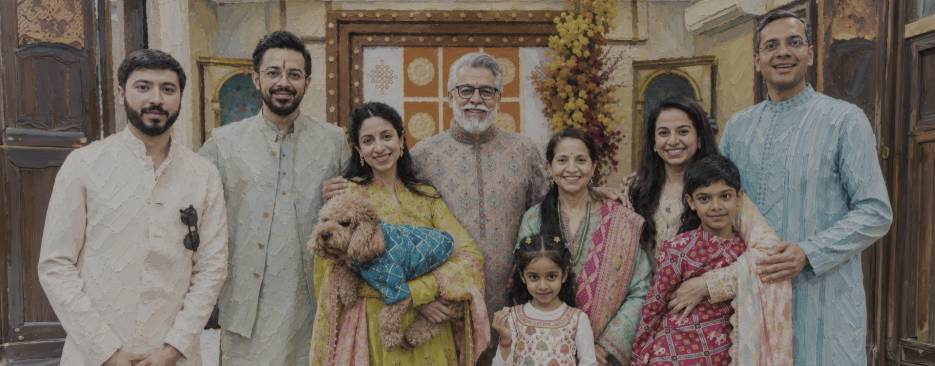
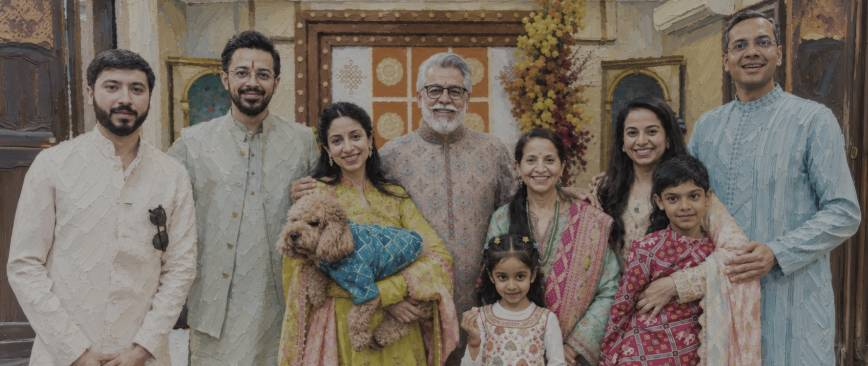
Family: clean cut-out, no gaps around the large words, centred with a soft lower edge
- New cut-out from a stronger segmentation model: clean outline with soft hair edges, no background strips between or beside the figures; edge colours cleaned of the wall behind
- One exact row grid: each large word's capitals span whole rows, and the small words on either side are chosen and spaced to meet it at normal word spacing
- Faces on their own finer rows, blended into the body words along feathered ellipses
- The group is centred left of the text and level with it, and fades out softly at the bottom (phone too)

Claude-Session: https://claude.ai/code/session_011tDJ4uajGqNBzUiiqwHwYC

diff --git a/js/app.js b/js/app.js
@@ -120,29 +120,33 @@
   const layoutFor = s => wp.layout(spec(s), W, H, dpr);
 
   // ---------------- the family: the painting itself, set in words ----------------
-  // One facet is shown differently. The family is cut out of the painting and set in tightly packed rows of small words
-  // in the painting's own colours (finer across the faces, so each one stays recognisable), with the brushwork faintly
-  // between the letters. Its background is only a faint trace, as with the other portraits. On desktop a few larger
-  // words for this facet sit on the same row grid, set into the family's clothes. The group stands on the bottom edge
-  // of the screen like every portrait, text on the right. Scrolling in or out, it comes apart into its words.
+  // One facet is shown differently. The family is cut out of the painting and set in close rows of small words in the
+  // painting's own colours, with its brushwork faintly between the letters; the faces have their own finer rows, blended
+  // in softly, so each one stays recognisable. Its background is only a faint trace, as with the other portraits. On
+  // desktop a few larger words for this facet are set into the family's clothes on the same row grid: each one spans
+  // whole rows exactly, and the small words on either side are spaced to meet it, so nothing leaves a gap. The group
+  // sits level with the text and fades out softly at the bottom. Scrolling in or out, it comes apart into its words.
   // Phone: as tall as the portraits, panning across the family as you scroll.
   const ART = (() => {
     const fi = FACETS.findIndex(f => f.art); if (fi < 0) return null;
     const f = FACETS[fi], state = String(fi), el = $('.famart'), x = el.getContext('2d'), root = document.documentElement;
     const img = new Image(), mimg = new Image(), bimg = new Image();
-    let built = '', box = null, shown = -1, words = [], under = null, layer = null, scene = null, D = 1;
+    let built = '', box = null, shown = -1, words = [], layers = null, D = 1;
     img.src = f.art; mimg.src = f.artMask; bimg.src = f.artBg;
     const loaded = Promise.all([img.decode(), mimg.decode(), bimg.decode()]).catch(() => {});
-    // the painting file is cropped to the family: x from 50 to 1920 of the original 2000 × 733
-    const CX0 = 50 / 2000, CXW = 1870 / 2000;
-    const toCrop = u => (u - CX0) / CXW;
+    // the painting file is cropped to the family: [left, width] in pixels of the original painting, and its full width
+    const [c0, cW, oW] = f.artCrop, toCrop = u => (u * oW - c0) / cW;
     function place() {
-      const vw = innerWidth, vh = innerHeight, ar = (img.naturalWidth / img.naturalHeight) || 1870 / 733;
+      const vw = innerWidth, vh = innerHeight, ar = (img.naturalWidth / img.naturalHeight) || cW / 733;
       const hdr = parseFloat(getComputedStyle(root).getPropertyValue('--hdr'));
-      let w, h, left;
-      if (MOBILE.matches) { h = H; w = h * ar; left = 0; }
-      else { w = Math.min(vw * 0.62, (vh - hdr - 40) * ar); h = w / ar; left = vw * 0.02; }
-      const top = MOBILE.matches ? hdr + 2 : vh - h;   // desktop: standing on the bottom edge, like every portrait
+      let w, h, left, top;
+      if (MOBILE.matches) { h = H; w = h * ar; left = 0; top = hdr + 2; }
+      else {
+        // centred in the space left of the text and level with it (the faded lower edge makes the group read a little high)
+        const zl = vw * 0.025, zr = vw * 0.63;
+        w = Math.min(zr - zl, (vh - hdr - 60) * ar); h = w / ar;
+        left = zl + (zr - zl - w) / 2; top = Math.max(hdr + 12, vh / 2 - h * 0.44);
+      }
       box = { w: Math.round(w), h: Math.round(h), top, left };
       Object.assign(el.style, { width: box.w + 'px', height: box.h + 'px', top: top + 'px', left: left + 'px' });
       shown = -1;
@@ -153,75 +157,117 @@
       const cw = Math.round(box.w * D), ch = Math.round(box.h * D), mob = MOBILE.matches, key = cw + 'x' + ch + mob;
       if (key === built) return; built = key;
       el.width = cw; el.height = ch;
-      const R = seeded(fi * 31 + 7), pool = spec(state).words.map(w => w.t.toUpperCase());
+      const R = seeded(fi * 31 + 7), pool = [...new Set(spec(state).words.map(w => w.t.toUpperCase()))];
+      const pick = () => pool[(R() * pool.length) | 0];
+      const mk = () => { const c = document.createElement('canvas'); c.width = cw; c.height = ch; const g = c.getContext('2d'); g.fillStyle = '#fff'; g.textBaseline = 'alphabetic'; return [c, g]; };
+      const font = fs => `700 ${fs}px ${window.WP_FONT}`;
+      const probe = document.createElement('canvas').getContext('2d');
+      const widths = new Map(), widthOf = (t, fs) => { const k = fs + t; let w = widths.get(k); if (w === undefined) { probe.font = font(fs); w = probe.measureText(t).width; widths.set(k, w); } return w; };
+      probe.font = font(100); const CAP = (probe.measureText('H').actualBoundingBoxAscent || 72) / 100;   // capitals only: a line is its cap height
+      // where the family is (a small copy of the cut-out's outline), and where the faces are
       const mc = document.createElement('canvas'); mc.width = mimg.naturalWidth; mc.height = mimg.naturalHeight;
       const mx = mc.getContext('2d'); mx.drawImage(mimg, 0, 0); const md = mx.getImageData(0, 0, mc.width, mc.height).data;
-      const onFamily = (px, py) => { const i = (Math.min(mc.height - 1, Math.max(0, (py / ch * mc.height) | 0)) * mc.width + Math.min(mc.width - 1, Math.max(0, (px / cw * mc.width) | 0))) * 4; return md[i] > 90; };
-      const ex = 65 / 2000, ey = 9 / 733, sx = 1830 / 2000, sy = 724 / 733;
-      const faces = f.heads.map(([hx, hy, rx, ry]) => [toCrop(ex + hx * sx) * cw, (ey + hy * sy) * ch, rx * sx / CXW * cw * 1.3, ry * sy * ch * 1.25]);
-      const inFace = (px, py, pad = 1) => faces.some(([a, b, rx, ry]) => ((px - a) / (rx * pad)) ** 2 + ((py - b) / (ry * pad)) ** 2 < 1);
-      const font = fs => `700 ${fs}px ${window.WP_FONT}`;
-      const mk = () => { const c = document.createElement('canvas'); c.width = cw; c.height = ch; const g = c.getContext('2d'); g.fillStyle = '#fff'; g.textBaseline = 'alphabetic'; return [c, g]; };
-      // one row grid for everything: small words on every line, larger words spanning several lines exactly
-      const body = ch / (mob ? 72 : 66), step = body * 0.84, gap = body * 0.2, y0 = body * 0.78;
-      const [t, tx] = mk();
+      const onFamily = (px, py) => md[(Math.min(mc.height - 1, Math.max(0, (py / ch * mc.height) | 0)) * mc.width + Math.min(mc.width - 1, Math.max(0, (px / cw * mc.width) | 0))) * 4] > 150;
+      const ex = 65 / 2000, ey = 9 / 733, sx = 1830 / 2000, sy = 724 / 733;   // the facet's head boxes are given relative to the group
+      const faces = f.heads.map(([hx, hy, rx, ry]) => [toCrop(ex + hx * sx) * cw, (ey + hy * sy) * ch, rx * sx * oW / cW * cw * 1.3, ry * sy * ch * 1.25]);
+      const inFace = (px, py, k = 1) => faces.some(([a, b, rx, ry]) => ((px - a) / (rx * k)) ** 2 + ((py - b) / (ry * k)) ** 2 < 1);
       words = [];
+
+      // a line of words from a to b. A side marked tight meets a large word: the line starts or ends exactly there. With
+      // both sides tight the words are chosen to fill the space, then spaced (and at most very slightly widened or
+      // narrowed) so the line runs exactly from one to the other.
+      function line(fs, y, a, b, tightA, tightB, tag) {
+        const space = fs * 0.22, put = (t, px, s) => words.push({ t, x: px, y, w: widthOf(t, fs) * s, fs, s, tag });
+        if (!tightA && !tightB) { let px = a - R() * fs * 4; while (px < b) { const t = pick(); put(t, px, 1); px += widthOf(t, fs) + space; } return; }
+        if (tightA && !tightB) { let px = a; while (px < b) { const t = pick(); put(t, px, 1); px += widthOf(t, fs) + space; } return; }
+        if (!tightA) { let px = b; while (px > a) { const t = pick(), w = widthOf(t, fs); px -= w; put(t, px, 1); px -= space; } return; }
+        const L = b - a, run = []; let sum = 0;
+        for (let miss = 0; miss < 12;) {
+          const t = pick(), w = widthOf(t, fs);
+          if (sum + w + space * run.length <= L) { run.push(t); sum += w; miss = 0; } else miss++;
+        }
+        // the last gap: the word that best fills what is left
+        const left = L - sum - space * run.length;
+        let best = null, bd = Infinity;
+        for (const t of pool) { const d = Math.abs(widthOf(t, fs) - left); if (d < bd) { bd = d; best = t; } }
+        if (best && widthOf(best, fs) < left * 1.14 + fs * 0.4) { run.push(best); sum += widthOf(best, fs); }
+        if (!run.length) return;
+        const gaps = run.length - 1, s = Math.min(1.08, Math.max(0.9, (L - space * gaps) / sum));
+        const extra = gaps ? Math.max(-space * 0.5, (L - sum * s - space * gaps) / gaps) : 0;
+        let px = gaps ? a : a + (L - sum * s) / 2;
+        for (const t of run) { put(t, px, s); px += widthOf(t, fs) * s + space + extra; }
+      }
+
+      // the row grid: every line the same height; a large word's capitals span whole lines, from the top of one to the
+      // baseline of another
+      const body = ch / (mob ? 72 : 64), step = body * CAP + body * 0.14, y0 = body * CAP, sp = body * 0.22;
       const big = [];
-      if (!mob) (f.feature || []).forEach(([w0, u, v, maxW]) => {
-        const cxp = toCrop(u) * cw, mw = maxW / CXW * cw;
+      if (!mob) for (const [t, u, v, maxW] of f.feature || []) {
+        const cx = toCrop(u) * cw, mw = maxW * oW / cW * cw;
         for (let n = 7; n >= 2; n--) {
-          const fs = (n * step - step * 0.2) / 0.72;   // cap height fills n rows, less one row's gap
-          tx.font = font(fs); const w = tx.measureText(w0).width;
+          const fs = ((n - 1) * step + body * CAP) / CAP, w = widthOf(t, fs);
           if (w > mw) continue;
-          const k = Math.round((v * ch + n * step / 2 - y0) / step), by = y0 + k * step, px = cxp - w / 2, top = by - fs * 0.72;
-          let fits = true;   // every part of the word on the family, and clear of every face
-          for (let i = 0; i <= 8 && fits; i++) { const qx = px + w * i / 8; for (const qy of [top, by - fs * 0.36, by]) if (!onFamily(qx, qy) || inFace(qx, qy)) { fits = false; break; } }
+          const k = Math.round((v * ch + ((n - 1) * step + body * CAP) / 2 - y0) / step), by = y0 + k * step, top = by - fs * CAP, px = cx - w / 2;
+          let fits = true;   // every part of it on the family, clear of every face and of the other large words
+          for (let i = 0; i <= 12 && fits; i++) { const qx = px + w * i / 12; for (const qy of [top, (top + by) / 2, by]) if (!onFamily(qx, qy) || inFace(qx, qy, 1.05)) { fits = false; break; } }
+          if (fits && big.some(q => k - n + 1 <= q.k1 && k >= q.k0 && px - sp < q.x1 && px + w + sp > q.x0)) fits = false;
           if (!fits) continue;
-          big.push([px - gap * 0.6, top - step * 0.1, px + w + gap * 0.6, by + step * 0.05]);
-          words.push({ t: w0, x: px, y: by, w, fs, big: true });
+          big.push({ t, x: px, y: by, w, fs, k0: k - n + 1, k1: k, x0: px - sp, x1: px + w + sp });
           break;
         }
+      }
+      for (let k = 0, y = y0; y < ch + step; k++, y += step) {
+        const bl = big.filter(q => k >= q.k0 && k <= q.k1).sort((p, q) => p.x0 - q.x0);
+        let a = -body * 2, ta = false;
+        for (const q of bl) { line(body, y, a, q.x0, ta, true, 'b'); a = q.x1; ta = true; }
+        line(body, y, a, cw + body * 2, ta, false, 'b');
+      }
+      big.forEach(q => words.push({ t: q.t, x: q.x, y: q.y, w: q.w, fs: q.fs, s: 1, tag: 'b', big: true }));
+      // the faces: their own finer rows, only where a face is
+      const fsF = body * 0.66, stepF = fsF * CAP + fsF * 0.14;
+      for (let y = fsF * CAP; y < ch + stepF; y += stepF) {
+        const yc = y - fsF * CAP / 2, spans = [];
+        faces.forEach(([a, b, rx, ry]) => { const e = (yc - b) / (ry * 1.15); if (Math.abs(e) < 1) { const hw = rx * 1.15 * Math.sqrt(1 - e * e); spans.push([a - hw - fsF * 2, a + hw + fsF * 2]); } });
+        spans.sort((p, q) => p[0] - q[0]);
+        const merged = []; spans.forEach(s0 => { const m = merged[merged.length - 1]; if (m && s0[0] <= m[1]) m[1] = Math.max(m[1], s0[1]); else merged.push(s0.slice()); });
+        merged.forEach(([a, b]) => line(fsF, y, a, b, false, false, 'f'));
+      }
+      // keep only words that show: on the family, and on the right side of the soft line between face and body
+      words = words.filter(w => {
+        const my = w.y - w.fs * CAP / 2, on = onFamily(w.x + w.w / 2, my) || onFamily(w.x + 2, my) || onFamily(w.x + w.w - 2, my);
+        if (!on) return false;
+        return w.tag === 'f' ? inFace(w.x + w.w / 2, my, 1.12) || inFace(w.x, my, 1.12) || inFace(w.x + w.w, my, 1.12) : w.big || !inFace(w.x + w.w / 2, my, 0.85);
       });
-      const blocked = (a, b, w, fs) => big.some(q => a < q[2] && a + w > q[0] && b - fs * 0.72 < q[3] && b > q[1]);
-      const rows = (fs, st, keep, out, onlyFamily) => {
-        out.font = font(fs);
-        for (let y = fs * 0.78; y < ch + fs; y += st) {
-          let px = -R() * fs * 4;
-          while (px < cw) {
-            const w0 = pool[(R() * pool.length) | 0], w = out.measureText(w0).width, mxp = px + w / 2, myp = y - fs * 0.36;
-            if (keep(mxp, myp) && !blocked(px, y, w, fs) && (!onlyFamily || onFamily(mxp, myp) || onFamily(px, myp) || onFamily(px + w, myp))) words.push({ t: w0, x: px, y, w, fs });
-            px += w + fs * 0.2;
-          }
-        }
-      };
-      rows(body, step, (a, b) => !inFace(a, b), tx, true);
-      rows(body * 0.66, body * 0.66 * 0.86, (a, b) => inFace(a, b), tx, true);
-      words.forEach(w => { tx.font = font(w.fs); tx.fillText(w.t, w.x, w.y); });
-      // coloured by the cut-out painting: the words keep its colours and end exactly on the family's outline
-      tx.globalCompositeOperation = 'source-in'; tx.filter = 'brightness(1.12) saturate(1.08)'; tx.drawImage(img, 0, 0, cw, ch); tx.filter = 'none';
-      tx.globalCompositeOperation = 'source-atop'; tx.globalAlpha = 0.1; tx.fillStyle = '#fff';
-      words.forEach(w => { if (w.big) tx.fillRect(w.x - 2, w.y - w.fs, w.w + 4, w.fs * 1.1); });
-      tx.globalAlpha = 1; tx.globalCompositeOperation = 'source-over';
-      layer = t;
+      // draw the two sets, each coloured by the cut-out painting, and blend them along feathered ellipses round the faces
+      const [bc, bg] = mk(), [fc, fg] = mk();
+      words.forEach(w => { const g = w.tag === 'f' ? fg : bg; g.font = font(w.fs); g.setTransform(w.s, 0, 0, 1, w.x, w.y); g.fillText(w.t, 0, 0); });
+      bg.setTransform(1, 0, 0, 1, 0, 0); fg.setTransform(1, 0, 0, 1, 0, 0);
+      const [mkc, mkg] = mk(); mkg.fillStyle = '#000'; mkg.filter = `blur(${Math.round(body * 0.45)}px)`;
+      mkg.beginPath(); faces.forEach(([a, b, rx, ry]) => { mkg.moveTo(a + rx, b); mkg.ellipse(a, b, rx, ry, 0, 0, Math.PI * 2); }); mkg.fill(); mkg.filter = 'none';
+      fg.globalCompositeOperation = 'destination-in'; fg.drawImage(mkc, 0, 0);
+      bg.globalCompositeOperation = 'destination-out'; bg.drawImage(mkc, 0, 0);
+      for (const g of [bg, fg]) { g.globalCompositeOperation = 'source-in'; g.filter = 'brightness(1.12) saturate(1.08)'; g.drawImage(img, 0, 0, cw, ch); g.filter = 'none'; }
+      // the large words a touch lighter than the painting under them, so they read first
+      bg.globalCompositeOperation = 'source-atop'; bg.globalAlpha = 0.12; bg.fillStyle = '#fff';
+      big.forEach(q => bg.fillRect(q.x - 2, q.y - q.fs * CAP - 2, q.w + 4, q.fs * CAP + 4)); bg.globalAlpha = 1;
       // the brushwork under the words, on the family only
-      under = document.createElement('canvas'); under.width = cw; under.height = ch;
-      const ux = under.getContext('2d'); ux.globalAlpha = 0.42; ux.drawImage(img, 0, 0, cw, ch);
-      // the surroundings: a faint field of smaller words in the background's muted colours, fading out at the edges
-      const [sc, sg] = mk(); const sR = R;
-      sg.font = font(body * 0.8);
-      for (let y = body * 0.8; y < ch + body; y += body * 0.8 * 0.9) { let px = -sR() * body * 3; while (px < cw) { const w0 = pool[(sR() * pool.length) | 0]; sg.fillText(w0, px, y); px += sg.measureText(w0).width + body * 0.16; } }
+      const [uc, ug] = mk(); ug.globalAlpha = 0.42; ug.drawImage(img, 0, 0, cw, ch); ug.globalAlpha = 1;
+      // the surroundings: a faint field of smaller words in the background's muted colours, clear of the family
+      const [sc, sg] = mk(); sg.font = font(body * 0.8);
+      for (let y = body * 0.8; y < ch + body; y += body * 0.8 * 0.92) { let px = -R() * body * 3; while (px < cw) { const t = pick(); sg.fillText(t, px, y); px += widthOf(t, body * 0.8) + body * 0.17; } }
       sg.globalCompositeOperation = 'source-in'; sg.drawImage(bimg, 0, 0, cw, ch);
       sg.globalCompositeOperation = 'destination-out'; sg.filter = `blur(${Math.round(6 * D)}px)`; sg.drawImage(img, 0, 0, cw, ch); sg.drawImage(img, 0, 0, cw, ch); sg.filter = 'none';
-      sg.globalCompositeOperation = 'destination-in';
-      const fade = (x0, y0_, x1, y1, a, b2) => { const g = sg.createLinearGradient(x0, y0_, x1, y1); g.addColorStop(0, 'rgba(0,0,0,0)'); g.addColorStop(a, '#000'); g.addColorStop(b2, '#000'); g.addColorStop(1, 'rgba(0,0,0,0)'); sg.fillStyle = g; sg.fillRect(0, 0, cw, ch); };
-      fade(0, 0, cw, 0, 0.18, 0.82); fade(0, 0, 0, ch, 0.3, 1);
-      sg.globalCompositeOperation = 'source-over';
-      scene = sc;
+      const fade = (g, x0, y0_, x1, y1, a, b2) => { const gr = g.createLinearGradient(x0, y0_, x1, y1); gr.addColorStop(0, 'rgba(0,0,0,0)'); gr.addColorStop(a, '#000'); gr.addColorStop(b2, '#000'); gr.addColorStop(1, 'rgba(0,0,0,0)'); g.globalCompositeOperation = 'destination-in'; g.fillStyle = gr; g.fillRect(0, 0, cw, ch); };
+      fade(sg, 0, 0, cw, 0, 0.18, 0.82); fade(sg, 0, 0, 0, ch, 0.3, 0.7);
+      // everything fades out softly towards the bottom, rather than ending on a cut
+      for (const g of [bg, fg, ug]) fade(g, 0, 0, 0, ch, 0, 0.7);
+      for (const g of [bg, fg, ug, sg]) g.globalCompositeOperation = 'source-over';
+      layers = { b: bc, f: fc, under: uc, scene: sc };
       // each word's journey when the painting comes apart: a drift up and to the side, the large words last
       words.forEach(w => {
         const a = -Math.PI * (0.25 + R() * 0.5) + (R() - 0.5) * 0.6;
         w.dx = Math.cos(a) * (60 + R() * 220) * D; w.dy = Math.sin(a) * (60 + R() * 200) * D; w.rot = (R() - 0.5) * 0.5;
-        w.d = w.big ? 0.3 + R() * 0.15 : R() * 0.4; w.h = w.fs * 1.02;
+        w.d = w.big ? 0.3 + R() * 0.15 : R() * 0.4; w.top = w.y - w.fs * (CAP + 0.08); w.h = w.fs * (CAP + 0.16);
       });
       shown = -1;
     }
@@ -229,19 +275,19 @@
     function paint(q) {
       const cw = el.width, ch = el.height;
       x.setTransform(1, 0, 0, 1, 0, 0); x.clearRect(0, 0, cw, ch);
-      if (!layer) return;
-      x.globalAlpha = 0.16 * (1 - smooth(0, 0.4, q)); x.drawImage(scene, 0, 0);
-      x.globalAlpha = 1 - smooth(0, 0.45, q); x.drawImage(under, 0, 0);
-      if (q <= 0) { x.globalAlpha = 1; x.drawImage(layer, 0, 0); return; }
+      if (!layers) return;
+      x.globalAlpha = 0.16 * (1 - smooth(0, 0.4, q)); x.drawImage(layers.scene, 0, 0);
+      x.globalAlpha = 1 - smooth(0, 0.45, q); x.drawImage(layers.under, 0, 0);
+      if (q <= 0) { x.globalAlpha = 1; x.drawImage(layers.b, 0, 0); x.drawImage(layers.f, 0, 0); return; }
       for (const w of words) {
         const p = Math.min(1, Math.max(0, (q - w.d) / 0.55)), e = easeIO(p), a = 1 - p * p;
         if (a <= 0.01) continue;
-        const sy0 = w.y - w.fs * 0.86;
+        const src = layers[w.tag];
         x.globalAlpha = a;
-        if (e === 0) { x.setTransform(1, 0, 0, 1, 0, 0); x.drawImage(layer, w.x, sy0, w.w, w.h, w.x, sy0, w.w, w.h); continue; }
-        const cxw = w.x + w.w / 2 + w.dx * e, cyw = sy0 + w.h / 2 + w.dy * e, r = w.rot * e;
+        if (e === 0) { x.setTransform(1, 0, 0, 1, 0, 0); x.drawImage(src, w.x, w.top, w.w, w.h, w.x, w.top, w.w, w.h); continue; }
+        const cxw = w.x + w.w / 2 + w.dx * e, cyw = w.top + w.h / 2 + w.dy * e, r = w.rot * e;
         x.setTransform(Math.cos(r), Math.sin(r), -Math.sin(r), Math.cos(r), cxw, cyw);
-        x.drawImage(layer, w.x, sy0, w.w, w.h, -w.w / 2, -w.h / 2, w.w, w.h);
+        x.drawImage(src, w.x, w.top, w.w, w.h, -w.w / 2, -w.h / 2, w.w, w.h);
       }
       x.setTransform(1, 0, 0, 1, 0, 0); x.globalAlpha = 1;
     }

diff --git a/js/data.js b/js/data.js
@@ -13,7 +13,7 @@ window.FACETS = [
     line: "On the course, as in life: patience first, then precision.",
     anchor: [0.42, 0.79],   // the detail the note's line points to
     story: ["The same qualities show up on the green as in the boardroom: a steady swing, a competitor\u2019s focus and a deep respect for fair play.", "Partners remember the calm before a difficult putt, and the generosity after it, win or lose."] },
[2 lines of base64/hex data omitted]
     // larger, readable words set into the family (desktop): [word, centre x, centre y, widest it may be], as fractions of the painting
     feature: [['FAMILY', 0.51, 0.56, 0.1], ['HOME', 0.165, 0.66, 0.12], ['GRANDFATHER', 0.165, 0.86, 0.15], ['ROOTS', 0.29, 0.6, 0.11], ['MEMORIES', 0.29, 0.83, 0.11],
       ['LOVE', 0.43, 0.88, 0.085], ['BOND', 0.432, 0.6, 0.065], ['WARMTH', 0.615, 0.8, 0.075], ['LAUGHTER', 0.735, 0.82, 0.075], ['TOGETHER', 0.84, 0.6, 0.12], ['BELONGING', 0.84, 0.84, 0.12]],
